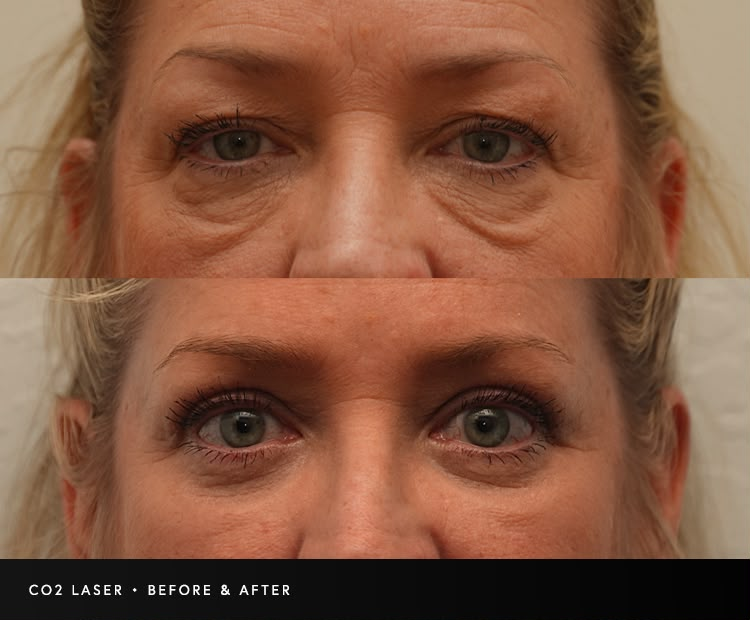
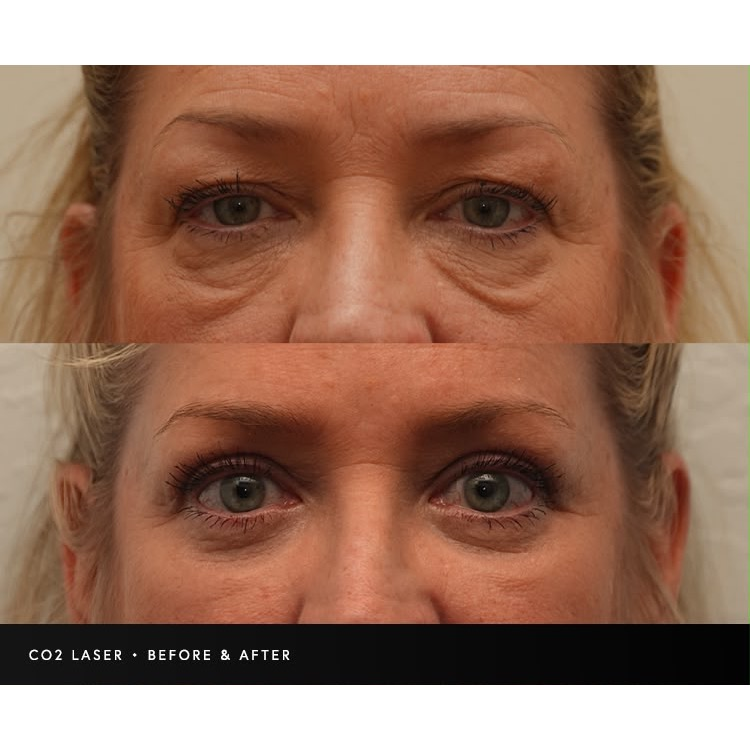
Polish treatments section: consolidate 3-session, tighten blepharoplasty, add bundle card
- Consolidate 3-session package into the £395 offer card as a secondary option
- Tighten blepharoplasty into two compact equal-height cards (Upper/Lower £190)
- Normalise eye before/after images to consistent squares (pad lower, object-cover)
- Add "eyes-only" clarifier vs the £395 full-face offer
- Feature the combined upper+lower result in a "Both eyelids together — £290" bundle card
- Keep the full-face money shot shown in full

diff --git a/components/PremiumTreatments.tsx b/components/PremiumTreatments.tsx
@@ -8,7 +8,7 @@ interface PremiumTreatmentsProps {
 }
 
 export default function PremiumTreatments({ onBookingClick }: PremiumTreatmentsProps) {
-  const [showAfterModal, setShowAfterModal] = useState(false)
+  const [lightboxImg, setLightboxImg] = useState<string | null>(null)
 
   const trackAndBook = () => {
     trackPRPDealView()
@@ -85,9 +85,25 @@ export default function PremiumTreatments({ onBookingClick }: PremiumTreatmentsP
                   </svg>
                 </button>
                 <p className="text-xs text-neutral-500 mt-3">£50 reserves your slot — redeemed off your treatment.</p>
+
+                {/* Secondary option — 3-session course */}
+                <div className="mt-5 pt-5 border-t border-primary-100 flex items-center justify-between gap-4">
+                  <div>
+                    <p className="text-sm font-semibold text-neutral-800">
+                      Prefer a full course? 3 sessions — <span className="gradient-text">£850</span>
+                    </p>
+                    <p className="text-xs text-neutral-500">Save £335 · best for deeper acne scarring</p>
+                  </div>
+                  <button
+                    onClick={trackAndBook}
+                    className="flex-shrink-0 px-4 py-2 rounded-full border border-primary-300 text-primary-700 font-medium hover:bg-primary-50 transition-colors text-sm"
+                  >
+                    Get Started
+                  </button>
+                </div>
               </div>
 
-              {/* RIGHT — Skin resurfacing money shot */}
+              {/* RIGHT — Skin resurfacing money shot (shown in full) */}
               <div>
                 <div className="relative rounded-2xl overflow-hidden shadow-premium-lg">
                   <img
@@ -104,179 +120,102 @@ export default function PremiumTreatments({ onBookingClick }: PremiumTreatmentsP
           </div>
         </div>
 
-        {/* Non-Surgical Blepharoplasty — Upper & Lower available separately */}
-        <div className="mb-12 sm:mb-16 max-w-5xl mx-auto">
-          <div className="bg-white rounded-2xl sm:rounded-3xl p-5 sm:p-6 lg:p-8 border border-neutral-200 shadow-sm">
-            <div className="flex items-center gap-3 mb-4">
-              <span className="text-2xl sm:text-3xl">👁</span>
-              <div>
-                <p className="text-primary-600 font-semibold text-[11px] sm:text-xs uppercase tracking-wider">Also available on their own</p>
-                <h4 className="text-lg sm:text-xl font-bold text-neutral-800">Non-Surgical Blepharoplasty — Upper &amp; Lower Eyelids</h4>
-              </div>
-            </div>
-
-            <p className="text-sm sm:text-base text-neutral-600 mb-6 leading-relaxed">
-              Fractional CO2 laser resurfacing uses controlled light beams to vaporize damaged skin, stimulate collagen, and tighten loose skin around the eyes. A non-surgical lift to reduce wrinkles, fine lines, hooded lids and under-eye crepiness — results comparable to traditional blepharoplasty, but without the surgery. Treat the upper lids, lower lids, or both.
+        {/* Non-Surgical Blepharoplasty — Upper & Lower, available separately */}
+        <div className="max-w-4xl mx-auto">
+          <div className="text-center mb-6 sm:mb-8">
+            <p className="text-primary-600 font-medium tracking-wider uppercase text-xs sm:text-sm">Also available on their own</p>
+            <h3 className="text-xl sm:text-2xl font-semibold text-neutral-800 mt-1">Non-Surgical Blepharoplasty</h3>
+            <p className="text-sm text-neutral-600 max-w-xl mx-auto mt-2">
+              Only want your eyes done? CO2 laser is a non-surgical alternative to blepharoplasty — smoothing and tightening the eye area. Choose the upper lids, lower lids, or both.
             </p>
+          </div>
 
-            {/* Two priced treatments */}
-            <div className="grid sm:grid-cols-2 gap-4 sm:gap-5 mb-5">
-              {/* Upper */}
-              <div className="rounded-2xl border border-neutral-200 p-5 flex flex-col">
-                <div className="relative rounded-xl overflow-hidden mb-4">
-                  <span className="absolute top-2 left-2 bg-neutral-800/70 text-white text-[10px] px-2 py-0.5 rounded-full z-10">Before &amp; After</span>
-                  <img
-                    src="/images/blepharoplasty-upper.jpeg"
-                    alt="Upper eyelid non-surgical blepharoplasty before and after"
-                    className="w-full h-auto"
-                  />
-                </div>
-                <p className="text-[11px] sm:text-xs text-primary-600 font-semibold uppercase tracking-wider mb-1">Non-Surgical Blepharoplasty</p>
-                <h5 className="text-base sm:text-lg font-bold text-neutral-800 mb-2">Upper Eyelids</h5>
-                <p className="text-xs sm:text-sm text-neutral-600 mb-4">Lifts hooded, heavy upper lids and smooths crepey skin above the eye.</p>
-                <ul className="space-y-2 mb-5 flex-grow">
-                  {[
-                    'Tightens hooded upper lids',
-                    'Smooths fine lines & crepiness',
-                    'Stimulates collagen production',
-                  ].map((feature, idx) => (
-                    <li key={idx} className="flex items-center text-xs sm:text-sm text-neutral-700">
-                      <svg className="w-4 h-4 text-cyan-500 mr-2 flex-shrink-0" fill="currentColor" viewBox="0 0 20 20">
-                        <path fillRule="evenodd" d="M10 18a8 8 0 100-16 8 8 0 000 16zm3.707-9.293a1 1 0 00-1.414-1.414L9 10.586 7.707 9.293a1 1 0 00-1.414 1.414l2 2a1 1 0 001.414 0l4-4z" clipRule="evenodd" />
-                      </svg>
-                      {feature}
-                    </li>
-                  ))}
-                </ul>
-                <div className="flex items-center justify-between pt-3 border-t border-neutral-100 mt-auto">
-                  <p className="text-xl sm:text-2xl font-bold gradient-text">£190</p>
-                  <button
-                    onClick={trackAndBook}
-                    className="px-4 sm:px-5 py-2 sm:py-2.5 rounded-full bg-gradient-to-r from-primary-400 to-primary-600 text-white font-medium hover:shadow-lg transition-all duration-300 text-xs sm:text-sm"
-                  >
-                    Book Upper
-                  </button>
-                </div>
-              </div>
-
-              {/* Lower */}
-              <div className="rounded-2xl border border-neutral-200 p-5 flex flex-col">
-                <div className="relative rounded-xl overflow-hidden mb-4">
-                  <span className="absolute top-2 left-2 bg-neutral-800/70 text-white text-[10px] px-2 py-0.5 rounded-full z-10">Before &amp; After</span>
-                  <img
-                    src="/images/blepharoplasty-lower.jpeg"
-                    alt="Lower eyelid non-surgical blepharoplasty before and after"
-                    className="w-full h-auto"
-                  />
-                </div>
-                <p className="text-[11px] sm:text-xs text-primary-600 font-semibold uppercase tracking-wider mb-1">Non-Surgical Blepharoplasty</p>
-                <h5 className="text-base sm:text-lg font-bold text-neutral-800 mb-2">Lower Eyelids</h5>
-                <p className="text-xs sm:text-sm text-neutral-600 mb-4">Reduces under-eye crepiness, fine lines and tired-looking bags.</p>
-                <ul className="space-y-2 mb-5 flex-grow">
-                  {[
-                    'Firms under-eye crepiness',
-                    'Softens fine lines & bags',
-                    'Stimulates collagen production',
-                  ].map((feature, idx) => (
-                    <li key={idx} className="flex items-center text-xs sm:text-sm text-neutral-700">
-                      <svg className="w-4 h-4 text-cyan-500 mr-2 flex-shrink-0" fill="currentColor" viewBox="0 0 20 20">
-                        <path fillRule="evenodd" d="M10 18a8 8 0 100-16 8 8 0 000 16zm3.707-9.293a1 1 0 00-1.414-1.414L9 10.586 7.707 9.293a1 1 0 00-1.414 1.414l2 2a1 1 0 001.414 0l4-4z" clipRule="evenodd" />
-                      </svg>
-                      {feature}
-                    </li>
-                  ))}
-                </ul>
-                <div className="flex items-center justify-between pt-3 border-t border-neutral-100 mt-auto">
-                  <p className="text-xl sm:text-2xl font-bold gradient-text">£190</p>
-                  <button
-                    onClick={trackAndBook}
-                    className="px-4 sm:px-5 py-2 sm:py-2.5 rounded-full bg-gradient-to-r from-primary-400 to-primary-600 text-white font-medium hover:shadow-lg transition-all duration-300 text-xs sm:text-sm"
-                  >
-                    Book Lower
-                  </button>
-                </div>
-              </div>
-            </div>
-
-            {/* Bundle note */}
-            <div className="mb-6 p-3 bg-cyan-50 rounded-xl border border-cyan-200">
-              <p className="text-xs sm:text-sm text-cyan-800">
-                <span className="font-semibold">Book both together — £290</span> (save £90). Lower eyelids just £100 when combined with upper.
-              </p>
-            </div>
-
-            {/* Real result — enlargeable before/after */}
-            <div className="max-w-md mx-auto">
+          <div className="grid sm:grid-cols-2 gap-4 sm:gap-5">
+            {/* Upper */}
+            <div className="bg-white rounded-2xl border border-neutral-200 shadow-sm overflow-hidden flex flex-col">
               <button
-                onClick={() => setShowAfterModal(true)}
-                className="relative w-full group cursor-pointer block rounded-xl overflow-hidden shadow-md"
+                onClick={() => setLightboxImg('/images/blepharoplasty-upper.jpeg')}
+                className="relative block group cursor-pointer"
               >
-                <span className="absolute top-2 left-2 bg-neutral-800/70 text-white text-xs px-2 py-1 rounded-full z-10">Before &amp; After</span>
-                <span className="absolute top-2 right-2 bg-white/90 text-cyan-600 text-xs px-2 py-1 rounded-full z-10 font-medium group-hover:bg-cyan-500 group-hover:text-white transition-colors">
-                  Tap to enlarge
-                </span>
+                <span className="absolute top-2 left-2 bg-neutral-800/70 text-white text-[10px] px-2 py-0.5 rounded-full z-10">Before &amp; After</span>
+                <span className="absolute top-2 right-2 bg-white/90 text-cyan-600 text-[10px] px-2 py-0.5 rounded-full z-10 font-medium group-hover:bg-cyan-500 group-hover:text-white transition-colors">Enlarge</span>
                 <img
-                  src="/images/blepharoplasty-result.jpeg"
-                  alt="Non-surgical blepharoplasty before and after — real CO2 laser result"
-                  className="w-full h-auto group-hover:ring-2 ring-cyan-400 transition-all"
+                  src="/images/blepharoplasty-upper.jpeg"
+                  alt="Upper eyelid non-surgical blepharoplasty before and after"
+                  className="w-full aspect-square object-cover"
                 />
               </button>
-              <p className="text-center text-xs text-neutral-500 mt-2">
-                Real CO2 laser eyelid rejuvenation results.
-              </p>
+              <div className="p-4 sm:p-5 flex flex-col flex-grow">
+                <h4 className="text-base sm:text-lg font-bold text-neutral-800">Upper Eyelids</h4>
+                <p className="text-xs sm:text-sm text-neutral-600 mt-1 mb-4 flex-grow">Lifts hooded, heavy lids and smooths crepey skin above the eye.</p>
+                <div className="flex items-center justify-between">
+                  <p className="text-xl sm:text-2xl font-bold gradient-text">£190</p>
+                  <button
+                    onClick={trackAndBook}
+                    className="px-4 sm:px-5 py-2 rounded-full bg-gradient-to-r from-primary-400 to-primary-600 text-white font-medium hover:shadow-lg transition-all duration-300 text-sm"
+                  >
+                    Book
+                  </button>
+                </div>
+              </div>
+            </div>
+
+            {/* Lower */}
+            <div className="bg-white rounded-2xl border border-neutral-200 shadow-sm overflow-hidden flex flex-col">
+              <button
+                onClick={() => setLightboxImg('/images/blepharoplasty-lower.jpeg')}
+                className="relative block group cursor-pointer"
+              >
+                <span className="absolute top-2 left-2 bg-neutral-800/70 text-white text-[10px] px-2 py-0.5 rounded-full z-10">Before &amp; After</span>
+                <span className="absolute top-2 right-2 bg-white/90 text-cyan-600 text-[10px] px-2 py-0.5 rounded-full z-10 font-medium group-hover:bg-cyan-500 group-hover:text-white transition-colors">Enlarge</span>
+                <img
+                  src="/images/blepharoplasty-lower.jpeg"
+                  alt="Lower eyelid non-surgical blepharoplasty before and after"
+                  className="w-full aspect-square object-cover"
+                />
+              </button>
+              <div className="p-4 sm:p-5 flex flex-col flex-grow">
+                <h4 className="text-base sm:text-lg font-bold text-neutral-800">Lower Eyelids</h4>
+                <p className="text-xs sm:text-sm text-neutral-600 mt-1 mb-4 flex-grow">Reduces under-eye crepiness, fine lines and tired-looking bags.</p>
+                <div className="flex items-center justify-between">
+                  <p className="text-xl sm:text-2xl font-bold gradient-text">£190</p>
+                  <button
+                    onClick={trackAndBook}
+                    className="px-4 sm:px-5 py-2 rounded-full bg-gradient-to-r from-primary-400 to-primary-600 text-white font-medium hover:shadow-lg transition-all duration-300 text-sm"
+                  >
+                    Book
+                  </button>
+                </div>
+              </div>
             </div>
           </div>
-        </div>
 
-        {/* 3-Session Package — the alternative */}
-        <div className="text-center mb-6 sm:mb-8">
-          <p className="text-primary-600 font-medium tracking-wider uppercase text-xs sm:text-sm">For deeper concerns</p>
-          <h3 className="text-xl sm:text-2xl font-semibold text-neutral-800 mt-1">3-Session Package</h3>
-        </div>
-
-        <div className="max-w-md mx-auto">
-          <div className="group relative bg-white rounded-2xl sm:rounded-3xl p-5 sm:p-6 lg:p-8 transition-all duration-500 flex flex-col h-full shadow-premium-lg border-2 border-primary-200 sm:hover:scale-105">
-            <div className="absolute -top-2 sm:-top-3 left-1/2 -translate-x-1/2 bg-gradient-to-r from-primary-500 to-primary-600 text-white px-3 sm:px-4 py-0.5 sm:py-1 rounded-full text-xs sm:text-sm font-medium">
-              Best Value
-            </div>
-
-            <div className="absolute inset-0 bg-gradient-to-br from-primary-400 to-primary-600 opacity-5 rounded-2xl sm:rounded-3xl transition-opacity group-hover:opacity-10"></div>
-
-            <div className="relative flex flex-col h-full">
-              <div className="mb-3 sm:mb-4 lg:mb-6">
-                <div className="text-3xl sm:text-4xl lg:text-5xl p-2.5 sm:p-3 lg:p-4 bg-gradient-to-br from-primary-400 to-primary-600 rounded-xl sm:rounded-2xl bg-opacity-10 inline-block">
-                  💎
-                </div>
-              </div>
-
-              <div className="mb-3 sm:mb-4 lg:mb-6">
-                <h3 className="text-lg sm:text-xl lg:text-2xl font-bold mb-1.5 sm:mb-2">3-Session Package</h3>
-                <p className="text-xs sm:text-sm lg:text-base text-neutral-600">Complete transformation package — best for deeper acne scarring and significant texture concerns.</p>
-              </div>
-
-              <ul className="space-y-1.5 sm:space-y-2 mb-4 sm:mb-6 flex-grow">
-                {['3 CO2 laser sessions', 'Save £335 total', 'Book within 6 months', 'Best for acne scars'].map((feature, idx) => (
-                  <li key={idx} className="flex items-start sm:items-center text-xs sm:text-sm text-neutral-700">
-                    <svg className="w-4 h-4 sm:w-5 sm:h-5 text-primary-500 mr-1.5 sm:mr-2 flex-shrink-0 mt-0.5 sm:mt-0" fill="currentColor" viewBox="0 0 20 20">
-                      <path fillRule="evenodd" d="M10 18a8 8 0 100-16 8 8 0 000 16zm3.707-9.293a1 1 0 00-1.414-1.414L9 10.586 7.707 9.293a1 1 0 00-1.414 1.414l2 2a1 1 0 001.414 0l4-4z" clipRule="evenodd" />
-                    </svg>
-                    {feature}
-                  </li>
-                ))}
-              </ul>
-
-              <div className="flex items-center justify-between pt-3 sm:pt-4 border-t border-neutral-100 mt-auto">
-                <div>
-                  <p className="text-xs text-neutral-500 sm:hidden">From</p>
-                  <p className="text-xl sm:text-2xl font-bold gradient-text">£850</p>
-                </div>
-                <button
-                  onClick={trackAndBook}
-                  className="px-4 sm:px-5 lg:px-6 py-2.5 sm:py-3 rounded-full bg-gradient-to-r from-primary-400 to-primary-600 text-white font-medium hover:shadow-lg transition-all duration-300 sm:hover:scale-105 text-sm sm:text-base"
-                >
-                  Get Started
-                </button>
-              </div>
+          {/* Bundle — both eyelids together, featuring the combined result */}
+          <div className="mt-4 sm:mt-5 max-w-2xl mx-auto bg-white rounded-2xl border border-primary-200 shadow-sm overflow-hidden flex flex-col sm:flex-row">
+            <button
+              onClick={() => setLightboxImg('/images/blepharoplasty-result.jpeg')}
+              className="relative sm:w-2/5 group cursor-pointer"
+            >
+              <span className="absolute top-2 left-2 bg-neutral-800/70 text-white text-[10px] px-2 py-0.5 rounded-full z-10">Upper &amp; lower done</span>
+              <span className="absolute top-2 right-2 bg-white/90 text-cyan-600 text-[10px] px-2 py-0.5 rounded-full z-10 font-medium group-hover:bg-cyan-500 group-hover:text-white transition-colors">Enlarge</span>
+              <img
+                src="/images/blepharoplasty-result.jpeg"
+                alt="Upper and lower eyelid non-surgical blepharoplasty before and after"
+                className="w-full h-48 sm:h-full object-cover"
+              />
+            </button>
+            <div className="p-4 sm:p-5 flex flex-col justify-center flex-1">
+              <p className="text-[11px] text-primary-600 font-semibold uppercase tracking-wider mb-1">Best value</p>
+              <h4 className="text-base sm:text-lg font-bold text-neutral-800">
+                Both eyelids together — <span className="gradient-text">£290</span>
+              </h4>
+              <p className="text-xs sm:text-sm text-neutral-600 mt-1 mb-4">Upper &amp; lower treated in one visit — save £90.</p>
+              <button
+                onClick={trackAndBook}
+                className="self-start px-5 py-2.5 rounded-full bg-gradient-to-r from-primary-500 to-primary-700 text-white font-medium hover:shadow-lg transition-all duration-300 text-sm"
+              >
+                Book Both — £290
+              </button>
             </div>
           </div>
         </div>
@@ -290,11 +229,11 @@ export default function PremiumTreatments({ onBookingClick }: PremiumTreatmentsP
         </div>
       </div>
 
-      {/* After Image Lightbox Modal */}
-      {showAfterModal && (
+      {/* Before/After Lightbox Modal */}
+      {lightboxImg && (
         <div
           className="fixed inset-0 z-[9999] flex items-center justify-center p-4 sm:p-8"
-          onClick={() => setShowAfterModal(false)}
+          onClick={() => setLightboxImg(null)}
         >
           <div className="absolute inset-0 bg-black/80 backdrop-blur-sm" />
 
@@ -303,7 +242,7 @@ export default function PremiumTreatments({ onBookingClick }: PremiumTreatmentsP
             onClick={(e) => e.stopPropagation()}
           >
             <button
-              onClick={() => setShowAfterModal(false)}
+              onClick={() => setLightboxImg(null)}
               className="absolute -top-12 right-0 sm:top-4 sm:right-4 w-10 h-10 bg-white/20 backdrop-blur rounded-full flex items-center justify-center hover:bg-white/30 transition-colors z-10"
             >
               <svg className="w-6 h-6 text-white" fill="none" stroke="currentColor" viewBox="0 0 24 24">
@@ -313,8 +252,8 @@ export default function PremiumTreatments({ onBookingClick }: PremiumTreatmentsP
 
             <div className="bg-white rounded-2xl sm:rounded-3xl overflow-hidden shadow-2xl">
               <img
-                src="/images/blepharoplasty-result.jpeg"
-                alt="Non-surgical blepharoplasty before and after - real result"
+                src={lightboxImg}
+                alt="Non-surgical blepharoplasty before and after — real result"
                 className="w-full h-auto"
               />
               <div className="p-4 sm:p-6 bg-gradient-to-r from-cyan-50 to-blue-50">
@@ -324,7 +263,7 @@ export default function PremiumTreatments({ onBookingClick }: PremiumTreatmentsP
                 </p>
                 <button
                   onClick={() => {
-                    setShowAfterModal(false)
+                    setLightboxImg(null)
                     onBookingClick?.()
                   }}
                   className="mt-4 w-full px-6 py-3 rounded-full bg-gradient-to-r from-cyan-500 to-primary-600 text-white font-medium hover:shadow-lg transition-all duration-300 text-sm sm:text-base"
